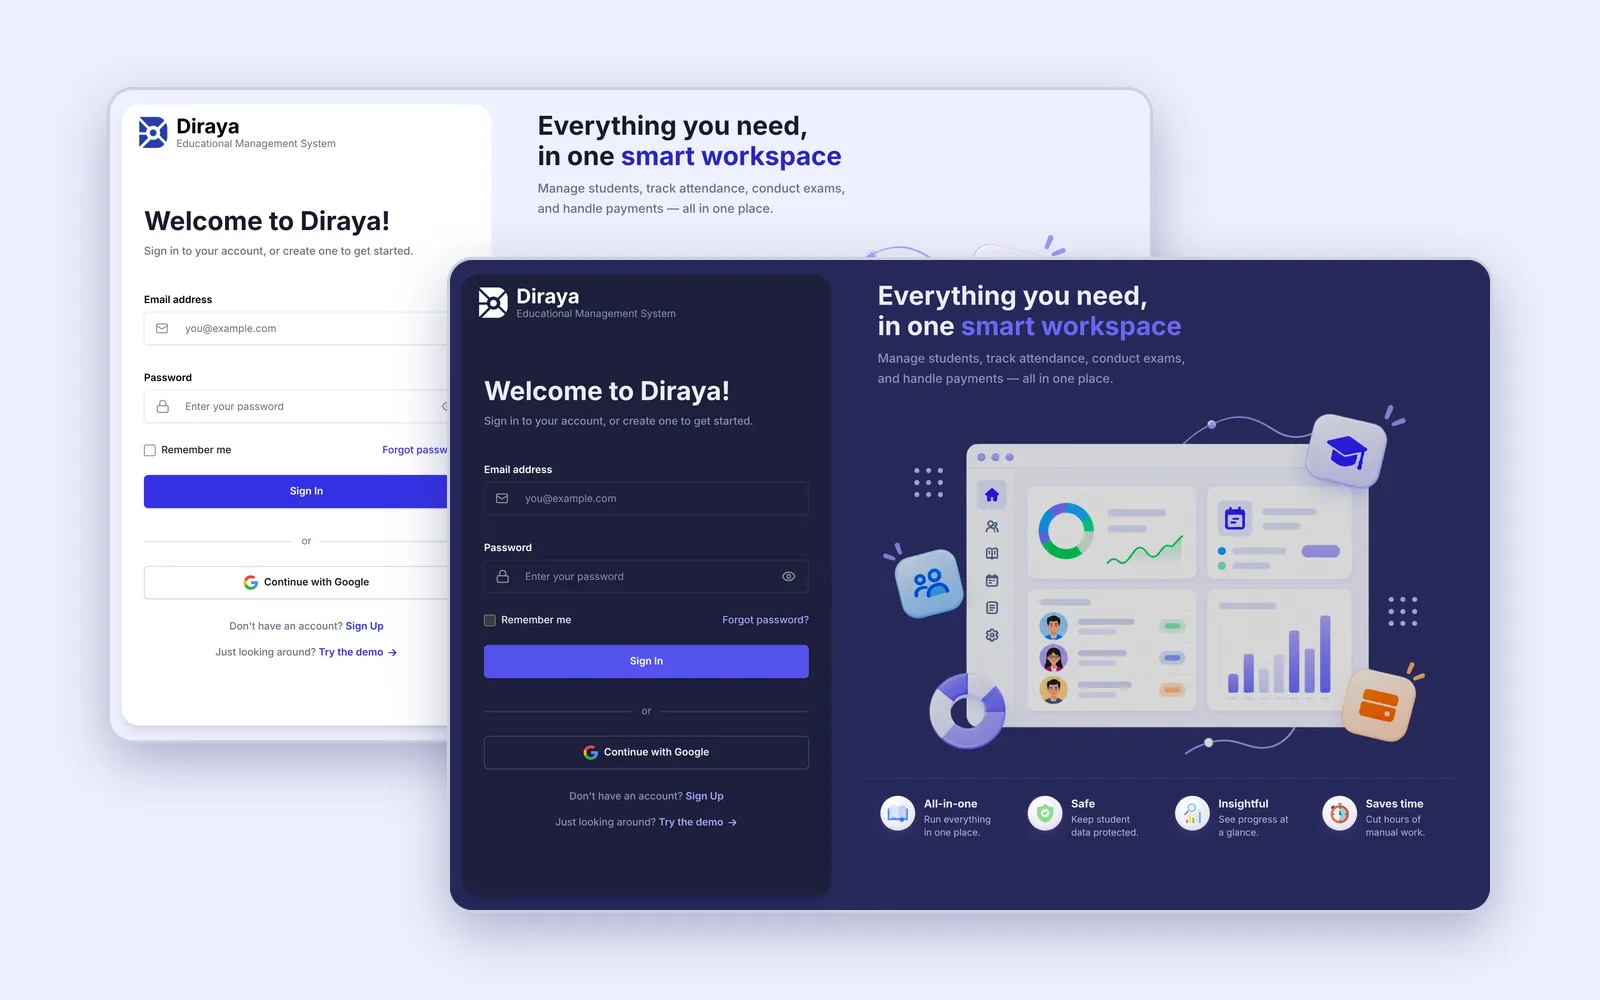
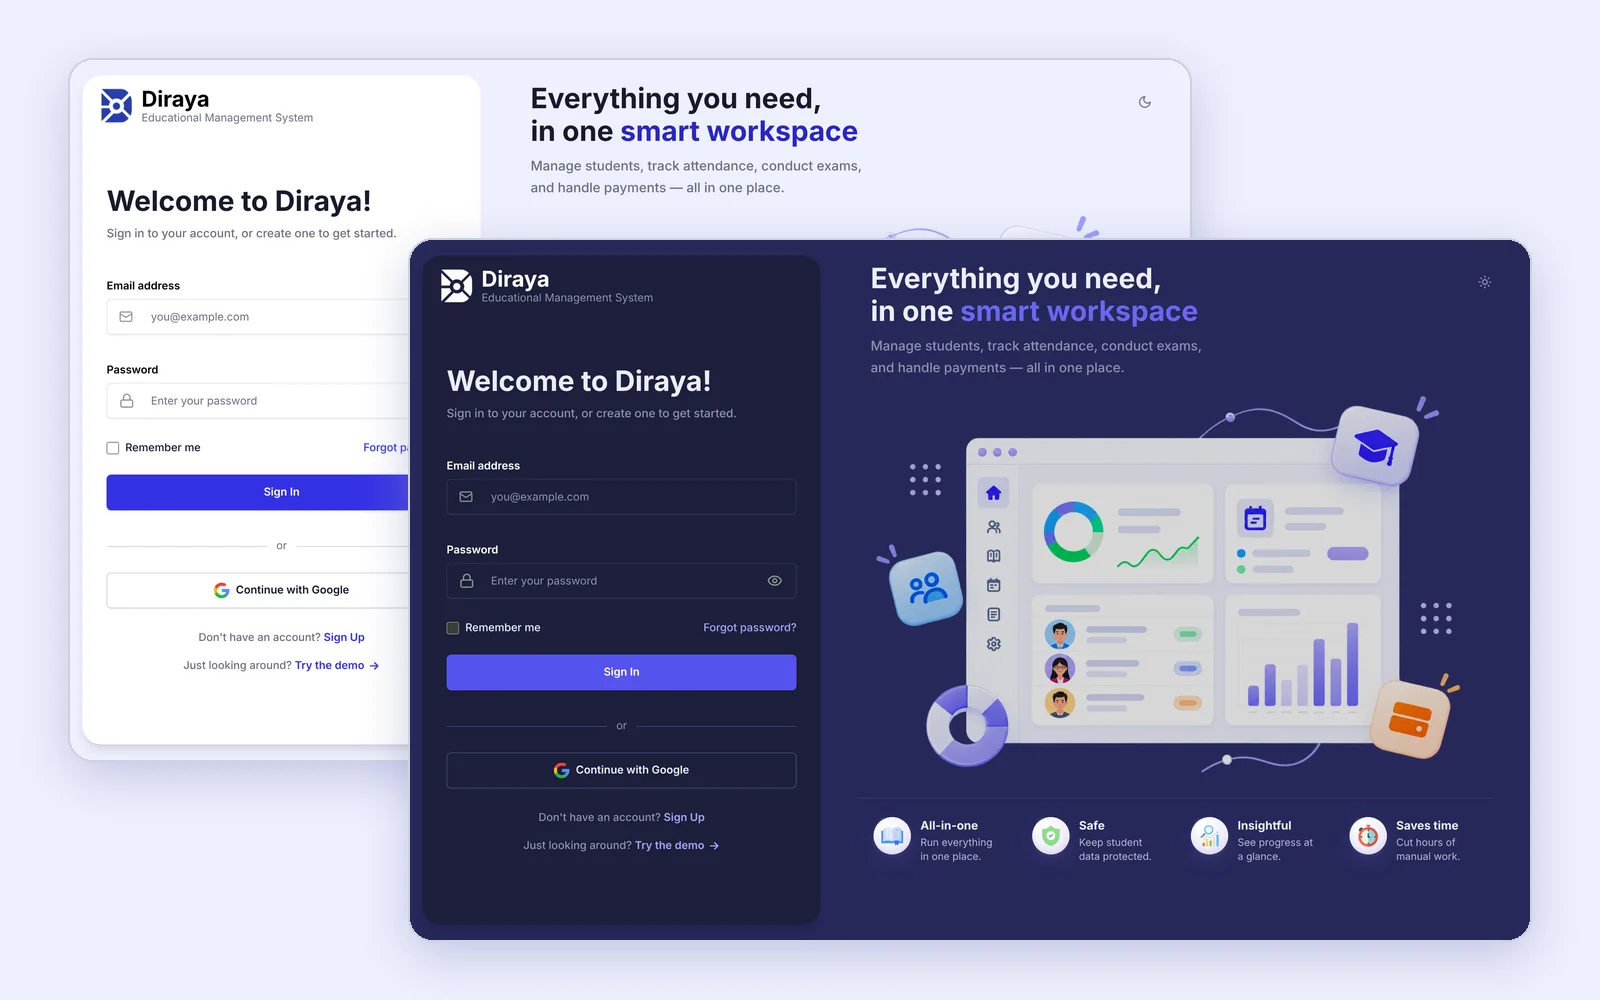
feat(projects/dirayaCard) - Change the screenshots of the project card diraya - Change the behavior of screenshots toggle to become auto when the card is fully shown -Enable the control of which screenshot to see through the dots, and enable zoom in

Changed region(s): [[0.0312, 0.062, 0.9688, 0.961], [0.3438, 0.744, 0.4688, 0.868], [0.5625, 0.465, 0.5938, 0.496]]

diff --git a/frontend/src/pages/PortfolioPage/components/Projects/components/ProjectThumbnail.tsx b/frontend/src/pages/PortfolioPage/components/Projects/components/ProjectThumbnail.tsx
@@ -1,41 +1,58 @@
-import { useEffect, useState } from "react";
+import { useEffect, useRef, useState, type MouseEvent } from "react";
 import type { Screenshot } from "@/data/projects";
 import { usePrefersReducedMotion } from "@/hooks/usePrefersReducedMotion";
 import ScreenshotDots from "./ScreenshotDots";
 import ScreenshotStack from "./ScreenshotStack";
 
 type ProjectThumbnailProps = {
+  name: string; // the project, for the dots' screen-reader labels
   screenshots: Screenshot[];
+  playing: boolean; // the card is fully on screen: the screenshots play by themselves
 };
 
-const SLIDE_MS = 1800;
+const SLIDE_MS = 3500;
+const ZOOM = "scale-[1.6]";
 
-// The card's screenshot, big enough to judge the app at a glance. Hovering it (mouse/trackpad)
-// cycles through the screenshots in place. It isn't a button: a click falls through to the card,
-// which opens the project page, where the full gallery is.
-function ProjectThumbnail({ screenshots }: ProjectThumbnailProps) {
+// The card's screenshot, big enough to judge the app at a glance.
+//   - plays by itself while `playing` (every 3.5s), without stopping; never for reduced motion
+//   - the dots jump to a screenshot, and the play carries on from there
+//   - hovering (mouse/trackpad) zooms 1.6x into the part under the pointer, and holds the
+//     current screenshot until the pointer leaves, so it never switches under someone reading it
+// A click anywhere but the dots falls through to the card, which opens the project page.
+function ProjectThumbnail({ name, screenshots, playing }: ProjectThumbnailProps) {
   const [index, setIndex] = useState(0);
-  const [hovered, setHovered] = useState(false);
+  const [zooming, setZooming] = useState(false);
   const reducedMotion = usePrefersReducedMotion();
+  const zoomRef = useRef<HTMLDivElement>(null);
   const count = screenshots.length;
+  const autoplay = playing && !zooming && !reducedMotion && count > 1;
 
-  // Touch screens fire mouseenter on tap; the hover cycle is only for a real pointer
-  const startHover = () => {
-    if (window.matchMedia("(hover: hover) and (pointer: fine)").matches) setHovered(true);
+  // A timeout per screenshot (not an interval): picking a dot changes `index`, which restarts
+  // the wait, so the picked screenshot gets its full 3.5s before the next one.
+  useEffect(() => {
+    if (!autoplay) return;
+    const timer = window.setTimeout(() => setIndex((i) => (i + 1) % count), SLIDE_MS);
+    return () => window.clearTimeout(timer);
+  }, [autoplay, count, index]);
+
+  // Touch screens fire mouseenter on tap: the zoom is only for a real pointer
+  const startZoom = () => {
+    if (window.matchMedia("(hover: hover) and (pointer: fine)").matches) setZooming(true);
   };
 
-  useEffect(() => {
-    if (!hovered || reducedMotion || count < 2) return;
-    const timer = window.setInterval(() => setIndex((i) => (i + 1) % count), SLIDE_MS);
-    return () => window.clearInterval(timer);
-  }, [hovered, reducedMotion, count]);
+  // The zoom grows from under the pointer. Set straight on the element (no React state),
+  // because it changes on every mouse move.
+  const followPointer = (event: MouseEvent<HTMLDivElement>) => {
+    const zoom = zoomRef.current;
+    if (!zoom) return;
+    const box = event.currentTarget.getBoundingClientRect();
+    const x = ((event.clientX - box.left) / box.width) * 100;
+    const y = ((event.clientY - box.top) / box.height) * 100;
+    zoom.style.transformOrigin = `${x}% ${y}%`;
+  };
 
   return (
-    <div
-      onMouseEnter={startHover}
-      onMouseLeave={() => setHovered(false)}
-      className="relative rounded-xl border border-line bg-[color-mix(in_oklab,var(--color-glow)_7%,var(--color-bg))] px-3 pt-3 pb-7 sm:px-5 sm:pt-5 sm:pb-8"
-    >
+    <div className="relative rounded-xl border border-line bg-[color-mix(in_oklab,var(--color-glow)_7%,var(--color-bg))] px-3 pt-3 pb-7 sm:px-5 sm:pt-5 sm:pb-8">
       {/* The app sits in its own dark browser window on a green panel: its own colors
           (light, blue) stay true, but they're contained by the site's, not clashing at the card's edge. */}
       <div className="overflow-hidden rounded-lg shadow-xl ring-1 shadow-black/40 ring-text/10">
@@ -44,11 +61,29 @@ function ProjectThumbnail({ screenshots }: ProjectThumbnailProps) {
           <span className="size-1.5 rounded-full bg-text/20 sm:size-2" />
           <span className="size-1.5 rounded-full bg-text/20 sm:size-2" />
         </div>
-        <ScreenshotStack screenshots={screenshots} index={index} />
+
+        {/* The zoom's window: overflow-hidden keeps the enlarged screenshot inside its frame */}
+        <div
+          onMouseEnter={startZoom}
+          onMouseLeave={() => setZooming(false)}
+          onMouseMove={followPointer}
+          className="overflow-hidden"
+        >
+          <div
+            ref={zoomRef}
+            className={`transition-transform duration-300 ease-out motion-reduce:transition-none ${
+              zooming ? ZOOM : ""
+            }`}
+          >
+            <ScreenshotStack screenshots={screenshots} index={index} />
+          </div>
+        </div>
       </div>
-      {/* In the panel's bottom margin: says there's more than one screen, without covering the app */}
-      <div className="absolute inset-x-0 bottom-2.5 sm:bottom-3">
-        <ScreenshotDots count={count} index={index} />
+
+      {/* In the panel's bottom margin, so they never cover the app. Buttons: the card's click
+          handler ignores clicks on buttons, so picking a dot doesn't open the project page. */}
+      <div className="absolute inset-x-0 bottom-0 sm:bottom-0.5">
+        <ScreenshotDots count={count} index={index} onSelect={setIndex} label={`${name} screenshot`} />
       </div>
     </div>
   );

diff --git a/frontend/src/pages/PortfolioPage/components/Projects/components/ProjectCard.tsx b/frontend/src/pages/PortfolioPage/components/Projects/components/ProjectCard.tsx
@@ -4,6 +4,7 @@ import ProjectStatusBadge from "@/components/project/ProjectStatusBadge";
 import ProjectTags from "@/components/project/ProjectTags";
 import FrameCorners from "@/components/ui/FrameCorners";
 import { projectPath, type Project, type Screenshot } from "@/data/projects";
+import { useIsVisible } from "@/hooks/useIsVisible";
 import CardGlow from "./CardGlow";
 import ProjectHighlights from "./ProjectHighlights";
 import ProjectLinks from "./ProjectLinks";
@@ -30,6 +31,8 @@ function ProjectCard({ project, number }: ProjectCardProps) {
   const titleId = `project-${slug}`;
   const navigate = useNavigate();
   const pressedAt = useRef({ x: 0, y: 0 });
+  // The screenshots play once the whole card is on screen (or fills it, on short screens)
+  const { ref: cardRef, visible: fullyShown } = useIsVisible<HTMLElement>();
 
   // The whole card opens the project page, as a mouse/touch shortcut. "See details" stays the
   // real link (keyboard, screen readers, middle-click), so this needs no role or tabindex.
@@ -50,6 +53,7 @@ function ProjectCard({ project, number }: ProjectCardProps) {
   return (
     <li>
       <article
+        ref={cardRef}
         aria-labelledby={titleId}
         onMouseDown={(event) => (pressedAt.current = { x: event.clientX, y: event.clientY })}
         onClick={openProject}
@@ -65,7 +69,11 @@ function ProjectCard({ project, number }: ProjectCardProps) {
         />
 
         <div className="shrink-0 md:w-[46%]">
-          <ProjectThumbnail screenshots={screenshots.slice(0, CARD_SCREENSHOTS).map(toCardImage)} />
+          <ProjectThumbnail
+            name={name}
+            screenshots={screenshots.slice(0, CARD_SCREENSHOTS).map(toCardImage)}
+            playing={fullyShown}
+          />
         </div>
 
         {/* min-w-0 lets long text wrap inside the column instead of widening the card */}

diff --git a/frontend/src/data/projects.ts b/frontend/src/data/projects.ts
@@ -57,15 +57,15 @@ export type Project = {
 const diraya: Project = {
   slug: "diraya",
   name: "Diraya",
-  tagline: "Teacher–student platform",
+  tagline: "Platform for private tutors",
   role: "Solo project",
   summary:
-    "A management platform for teachers and students: attendance, exams, marks and payments in one place.",
+    "A management platform for private tutors: students, groups, attendance, exams, marks and payments in one place.",
   // TODO(Ahmed): check this is your real reason for building it, in your words
   problem:
     "Small tutoring centers track attendance, marks and payments across paper, spreadsheets and WhatsApp. Nothing is connected, so a teacher can’t see who’s falling behind or who hasn’t paid.",
   features: [
-    "Separate teacher and student dashboards",
+    "Reports for parents, sent on WhatsApp as text or a PDF",
     "Attendance for a whole class in one screen",
     "Exams and marks, with each student’s progress over time",
     "Payments: collected vs outstanding, month by month",
@@ -113,7 +113,7 @@ const diraya: Project = {
     },
     {
       src: "/projects/diraya/signin-themes.webp",
-      alt: "The sign-in page in the light and the dark theme",
+      alt: "The sign-in page in the light and the dark theme, with the theme switch in the top-right corner",
       caption: "Light and dark themes",
     },
     {

diff --git a/frontend/src/hooks/useIsVisible.ts b/frontend/src/hooks/useIsVisible.ts
@@ -1,0 +1,33 @@
+import { useEffect, useRef, useState } from "react";
+
+// Steps the observer reports at, so "fully visible" is noticed close to the moment it happens
+const THRESHOLDS = [0, 0.25, 0.5, 0.75, 0.9, 0.95, 1];
+
+// true while the element is FULLY on screen, or, if it's taller than the screen, while it covers
+// most of it (90%). false again once part of it leaves. Unlike useInView (true once, for one-off
+// animations), this follows the element both ways, for things that should only run while
+// they can be seen, like the project cards' auto-playing screenshots.
+export function useIsVisible<T extends Element>() {
+  const ref = useRef<T>(null);
+  const [visible, setVisible] = useState(false);
+
+  useEffect(() => {
+    const element = ref.current;
+    if (!element) return;
+
+    const observer = new IntersectionObserver(
+      ([entry]) => {
+        const screenHeight = entry.rootBounds?.height ?? window.innerHeight;
+        const seen = entry.intersectionRect.height;
+        const whole = seen >= entry.boundingClientRect.height - 2;
+        const fillsScreen = seen >= screenHeight * 0.9;
+        setVisible(entry.isIntersecting && (whole || fillsScreen));
+      },
+      { threshold: THRESHOLDS },
+    );
+    observer.observe(element);
+    return () => observer.disconnect();
+  }, []);
+
+  return { ref, visible };
+}

diff --git a/frontend/src/pages/PortfolioPage/components/Projects/components/ScreenshotDots.tsx b/frontend/src/pages/PortfolioPage/components/Projects/components/ScreenshotDots.tsx
@@ -1,8 +1,8 @@
 type ScreenshotDotsProps = {
   count: number;
   index: number;
-  // When given, the dots are buttons that jump to a screenshot. Without it they're
-  // a read-only indicator (used in the hover window, which can't be clicked).
+  // When given, the dots are buttons that jump to a screenshot (the project card).
+  // Without it they're a read-only indicator.
   onSelect?: (index: number) => void;
   label?: string; // e.g. the project name, for screen readers
 };

diff --git a/CLAUDE.md b/CLAUDE.md
@@ -115,7 +115,7 @@ Be direct. Say when there is a better way. Do not just agree.
 - Key decisions section (built, checked against Diraya's payments + demo modules, migrations and tests): 4 decision records, each in a BlockFrame titled with the question. Inside: "The obvious way" (dashed, muted, option struck through, top-aligned so it stays small) beside "What I built" (solid, faint green wash, green checks), side by side from @2xl; then a <dl>: "The cost" + "In the code" (mono chips that open the real file on GitHub via `repoFileUrl` = `<repo>/blob/HEAD/<path>`; plain text when the project has no repo, never a dead link). Ends with a RuleCallout: "make the wrong outcome impossible, not just unlikely". Decisions: payments as a ledger (split, void never delete, status computed), request_id + row lock against double payments, tests on a real test database (not mocks), a fresh demo teacher per visit. No diagram or code block: the GitHub links are the proof. Chosen to not repeat any section's own "Design decisions".
 - About section (built; text lives in `src/data/about.ts`): serif lead "Telecom engineer by degree, full-stack developer by choice." + story beside a calm photo in its own matted frame (Unsplash forest lake, sky cropped by zooming from the bottom; decorative, alt=""); "How I work" as a framed card (3 numbered principles with dividers), then three bordered cards (How I learn, Toolbox, Looking for) with no numbers: every block framed so each starts and ends visibly; the belief line as the closing quote ("For me, work isn’t about being somewhere. It’s about providing value and exchanging it: what’s good for the place I work is good for me."; Ahmed's own words: owner mindset + a fair exchange. Never write "founder mindset" on the page); principle titles in the serif display font (text-xl/2xl) so "How I work" speaks in the section's voice; titles kept short and parallel (3rd: "Built for real needs"); story paragraph 2 names a few subjects, not a syllabus. Rejected for About: icons on the principles (template feature grid), hover color changes on non-clickable cards, Diraya "receipts" under the principles (Projects is where the proof lives); then a divider + `$ let's talk` terminal line to #contact (the same ending as Projects). No fact strip: every fact was already said elsewhere. Amber only on the eyebrow and the belief bar; no highlighted words. Toolbox lists only what can be defended in an interview ("Familiar" hidden while empty). No age, no second portrait, no skill bars, no religion on the page.
 - Screenshots (decided 3 Nov 2026): one ordered list per project. The card shows the first 3 (`CARD_SCREENSHOTS` in ProjectCard), the strongest screens; the project page gallery shows them all, starting from the same one, so the card feels like it zooms into the page. Diraya's order: Teacher home, Student profile, Payments (the card's three). On the card they are light + dark pairs (two overlapping pages, light behind, dark in front, like the sign-in image; a screenshot's optional `card` field holds that version): they make the card look finished, and nobody reads data at card size. The project page shows every screen full size, alternating light and dark (Home light, Profile dark, Payments light, Grade dark, Attendance light, Exams dark, the sign-in pair, phones light): pairs there would hide half of each page, and the theme mustn't be the loudest thing in the gallery, then Students in a grade, Take attendance, Exams & marks, Light and dark themes (both sign-in pages as overlapping cards; theming is a detail for interested visitors, not the card), On a phone (three phone screens). 8 images = two full rows of the gallery's 4-column thumbnails.
-- Project cards: one project per row at every width, as a large rectangle (md+: screenshot 46% on the left, text vertically centered beside it; phones: screenshot on top). Text: name + status + number, full summary, `highlights` as a stacked mono list (the "why click" lines), all tags, then links under a divider. Hovering the screenshot cycles through the screenshots in place. The whole card is clickable and opens the project page (same as "See details"): a click handler on the <article> with cursor-pointer, skipping clicks on inner links/buttons, drags over 5px and text selections, Ctrl/Cmd-click opens a new tab; "See details" stays the real link for keyboard and screen readers (no nested links, no role on the article). The screenshot is no longer its own button and the card viewer is gone: the project page gallery shows the screenshots. Hover: glow + pointer only, deliberately no scale (a wide card scaling moves the whole row and blurs text mid-transition). No floating hover preview any more (it existed because the thumbnail was too small). Screenshots sit in a dark browser-window frame on a green panel, so a light/blue app screenshot is contained instead of clashing (don't re-theme Diraya for the portfolio). Two gold corners on each card's top only (`FrameCorners only="top"`, decided 2 Nov 2026: with cards stacked, bottom corners crowded the next card's top ones; the border closes the bottom). The project panel and Technical details box keep all four; they fade out on hover when the green glow takes over. Links: "See details" (project page), "Live demo" written out (new tab, once it exists), GitHub icon. No card lift/slide animation: it repeats the hover glow and reveals nothing.
+- Project cards: one project per row at every width, as a large rectangle (md+: screenshot 46% on the left, text vertically centered beside it; phones: screenshot on top). Text: name + status + number, full summary, `highlights` as a stacked mono list (the "why click" lines), all tags, then links under a divider. The screenshots play by themselves once the whole card is on screen (or covers 90% of a short screen; `useIsVisible` on the card), every 3.5s, and never stop (Ahmed's call, 3 Nov 2026); only reduced motion turns it off. The dots are buttons (28px hit area): picking one jumps there without opening the project page, and the play continues from it. Hover = a 1.6× magnifier from under the pointer (fine pointers only), and the current screenshot is held only while the pointer is on it, so it never switches under someone reading it; the play resumes the moment the pointer leaves. (A slow 6% zoom was tried and rejected: it showed nothing. A bigger hover popup was rejected: it would cover the card.) The whole card is clickable and opens the project page (same as "See details"): a click handler on the <article> with cursor-pointer, skipping clicks on inner links/buttons, drags over 5px and text selections, Ctrl/Cmd-click opens a new tab; "See details" stays the real link for keyboard and screen readers (no nested links, no role on the article). The screenshot is no longer its own button and the card viewer is gone: the project page gallery shows the screenshots. Hover: glow + pointer only, deliberately no scale (a wide card scaling moves the whole row and blurs text mid-transition). No floating hover preview any more (it existed because the thumbnail was too small). Screenshots sit in a dark browser-window frame on a green panel, so a light/blue app screenshot is contained instead of clashing (don't re-theme Diraya for the portfolio). Two gold corners on each card's top only (`FrameCorners only="top"`, decided 2 Nov 2026: with cards stacked, bottom corners crowded the next card's top ones; the border closes the bottom). The project panel and Technical details box keep all four; they fade out on hover when the green glow takes over. Links: "See details" (project page), "Live demo" written out (new tab, once it exists), GitHub icon. No card lift/slide animation: it repeats the hover glow and reveals nothing.
 - Hero photo on phones (below md): 4:3 like the About photo, crop pulled up (object-[50%_18%]) so the face stays centred, so the whole hero (name, tagline, buttons, photo, location) fits on the first screen; md+ keeps the 4:5 portrait (decided 2 Nov 2026).
 - Hero layout (lg+): text column + a photo column exactly as wide as the photo (no dead space between them); photo up to 360px (lg) / 420px (xl), sized from the screen height so it always fits; tagline widens to max-w-2xl at xl. Decided: the big photo wins over the "My projects" peek on short laptops (the peek only shows on tall screens). Terminal line 32px under the buttons. Kept on purpose: the full tagline (the deep dive proves it), the photo frame, no status dot next to `$ open to new roles`.
 - Contact section (built; text in `src/data/contact.ts`): "Let’s talk." answers About's `$ let's talk`. Email is the main action: one framed card with the amber corner (AccentCorner), the full address in mono, a solid amber "Write to me" (mailto with a pre-filled subject, "Hello from your portfolio"; if the page doesn't lose focus within 1.5s of the click, no email app opened, so a role="status" line offers Gmail / Outlook compose links and the Copy button: useMailtoFallback + MailFallback; all email URLs built in `emailLinks` in contact.ts) + a Copy button (status announced via role="status"), "I reply within a day", and Cairo's live local time with its offset computed by Intl (Egypt has DST, so never hard-code it). Beside it (lg) / under it: one row per other link (CV, LinkedIn, GitHub, WhatsApp via wa.me/20…), muted icons, no brand colors. A link with `href: null` is hidden, never shown dead. No photo, no section number, no contact form, no phone number shown (WhatsApp is text-only by intent). No closing terminal line: the footer ends the page. Signature (a deliberate exception to "animation only if it reveals information"): FrameTrace, a gold line that traces the email card's border once from the amber corner, then fades into the border and is removed (~1.8s, none for reduced motion). It plays the first time the card is scrolled into view, and again on every navbar click to Contact (EmailCard keys it on `location.key` when the hash is #contact); scrolling back never replays it. The ":" in the Cairo time ticks (motion-safe:animate-tick), still under review: it loops, see WCAG 2.2.2.
@@ -127,13 +127,13 @@ Be direct. Say when there is a better way. Do not just agree.
 
 - "Live demo" on the project page is a do-nothing button until `links.demo` is set in `data/projects.ts`
 - "Explore the technical details" scrolls to `#technical-details`, which doesn't exist until the deep dive is built
-- `data/projects.ts`: two cards for now (Diraya + a Diraya copy holding the second project's place), Diraya's problem text (check it's in Ahmed's words). Diraya's `features` and `summary`/`tagline` mention students' dashboards: Diraya has no student interface yet, so reword before launch. The Diraya repo (github.com/ahmed-sami9/Diraya) must be public.
+- `data/projects.ts`: two cards for now (Diraya + a Diraya copy holding the second project's place), Diraya's problem text (check it's in Ahmed's words). Diraya's tagline, summary and first feature were reworded on 3 Nov 2026 (no student interface exists): "Platform for private tutors", and the parent reports (WhatsApp text + PDF) replaced "separate teacher and student dashboards". The Diraya repo (github.com/ahmed-sami9/Diraya) must be public.
 - `data/caseStudies/diraya.ts`: re-check against the Diraya code if Diraya changed since it was written
 - Resume: add `public/resume.pdf`, then set `profile.links.resume` to "/resume.pdf" (all resume links appear by themselves)
 - Name consistency: the site says Ahmed Elgaml; LinkedIn's shown name and custom URL should match
 - Hosting: SPA rewrite (every URL serves `index.html`)
 - About TODOs: full-size photo file, English level after the EF SET.
-- Key decisions: every "In the code" link must open a pushed file on Diraya's default branch (repo public). Diraya's demo template (`demo.seed.ts` DEMO_SEEDERS) is still empty: fill it before launch, the demo decision promises sample data.
+- Key decisions: every "In the code" link must open a pushed file on Diraya's default branch (repo public).
 - Challenges & lessons: the "lesson" lines are Claude's drafts; Ahmed rewrites them in his own words (TODO in `diraya.ts`).
 - Key decisions wording: Ahmed reads it aloud and rewords anything that doesn't sound like him (TODO in `diraya.ts`).
 
